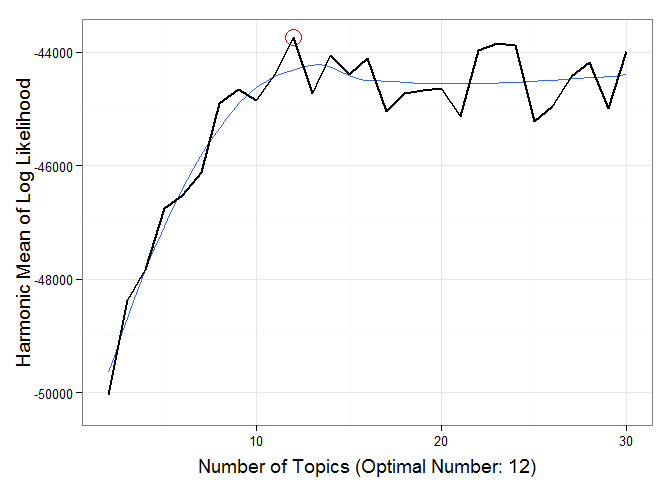
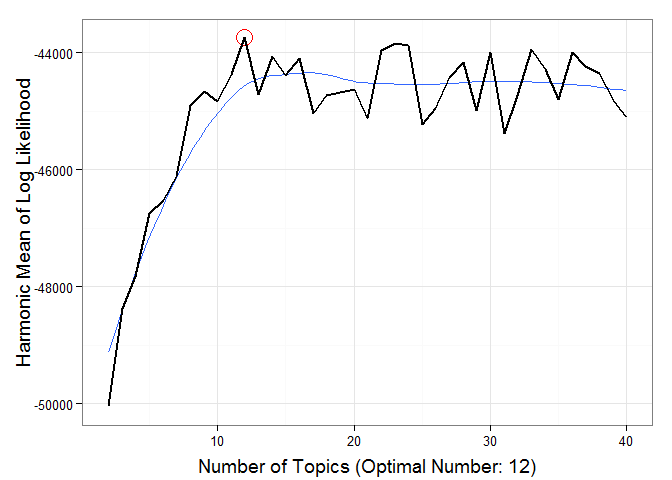
updated

diff --git a/README.md b/README.md
@@ -339,9 +339,6 @@ The .R script for this demonstration can be downloaded from
 ### Install/Load Tools & Data
 
     if (!require("pacman")) install.packages("pacman")
-
-    ## Loading required package: pacman
-
     pacman::p_load_gh("trinker/gofastr")
     pacman::p_load(tm, topicmodels, dplyr, tidyr, igraph, devtools, LDAvis, ggplot2)
 
@@ -385,14 +382,15 @@ The .R script for this demonstration can be downloaded from
 The plot below shows the harmonic mean of the log likelihoods against k
 (number of topics).
 
-    (k <- optimal_k(doc_term_mat, control = control))
+    (k <- optimal_k(doc_term_mat, 40, control = control))
 
     ## 
     ## Grab a cup of coffee this could take a while...
 
-    ## 10 of 30 iterations (Current: 02:45:47; Elapsed: .2 mins)
-    ## 20 of 30 iterations (Current: 02:46:26; Elapsed: .8 mins; Remaining: ~1.1 mins)
-    ## 30 of 30 iterations (Current: 02:47:25; Elapsed: 1.8 mins; Remaining: ~0 mins)
+    ## 10 of 40 iterations (Current: 02:49:26; Elapsed: .2 mins)
+    ## 20 of 40 iterations (Current: 02:50:01; Elapsed: .8 mins; Remaining: ~2.4 mins)
+    ## 30 of 40 iterations (Current: 02:51:02; Elapsed: 1.8 mins; Remaining: ~1.4 mins)
+    ## 40 of 40 iterations (Current: 02:52:29; Elapsed: 3.3 mins; Remaining: ~0 mins)
     ## Optimal number of topics = 12
 
 ![](inst/figure/unnamed-chunk-6-1.png)
